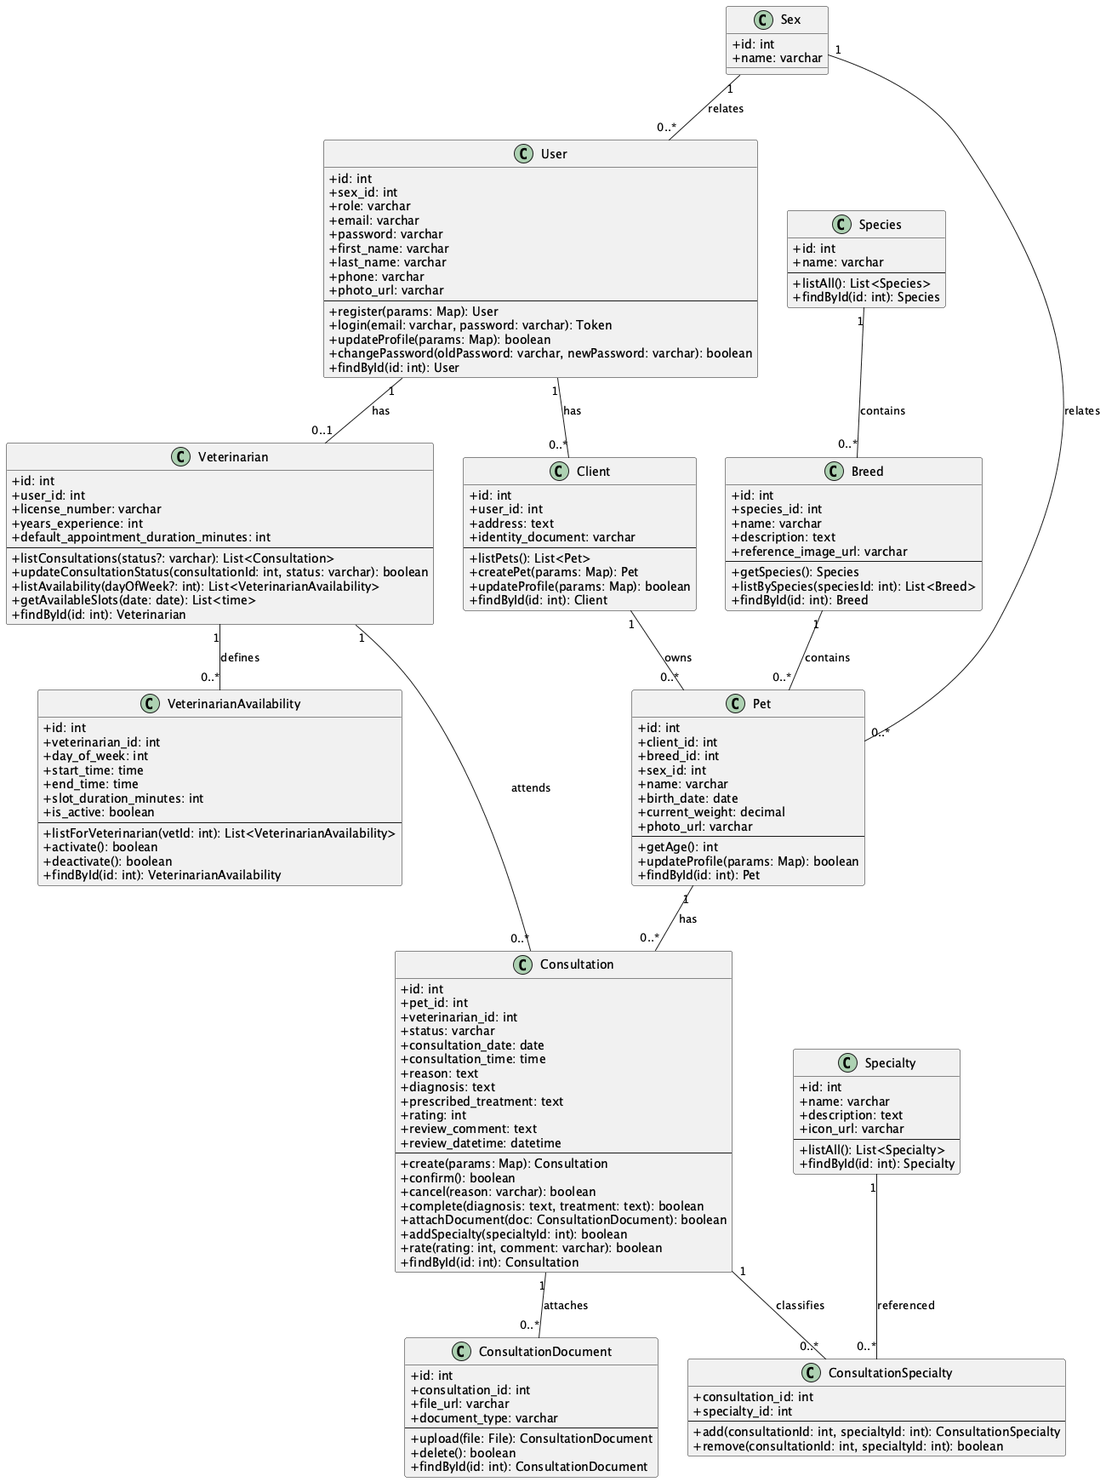
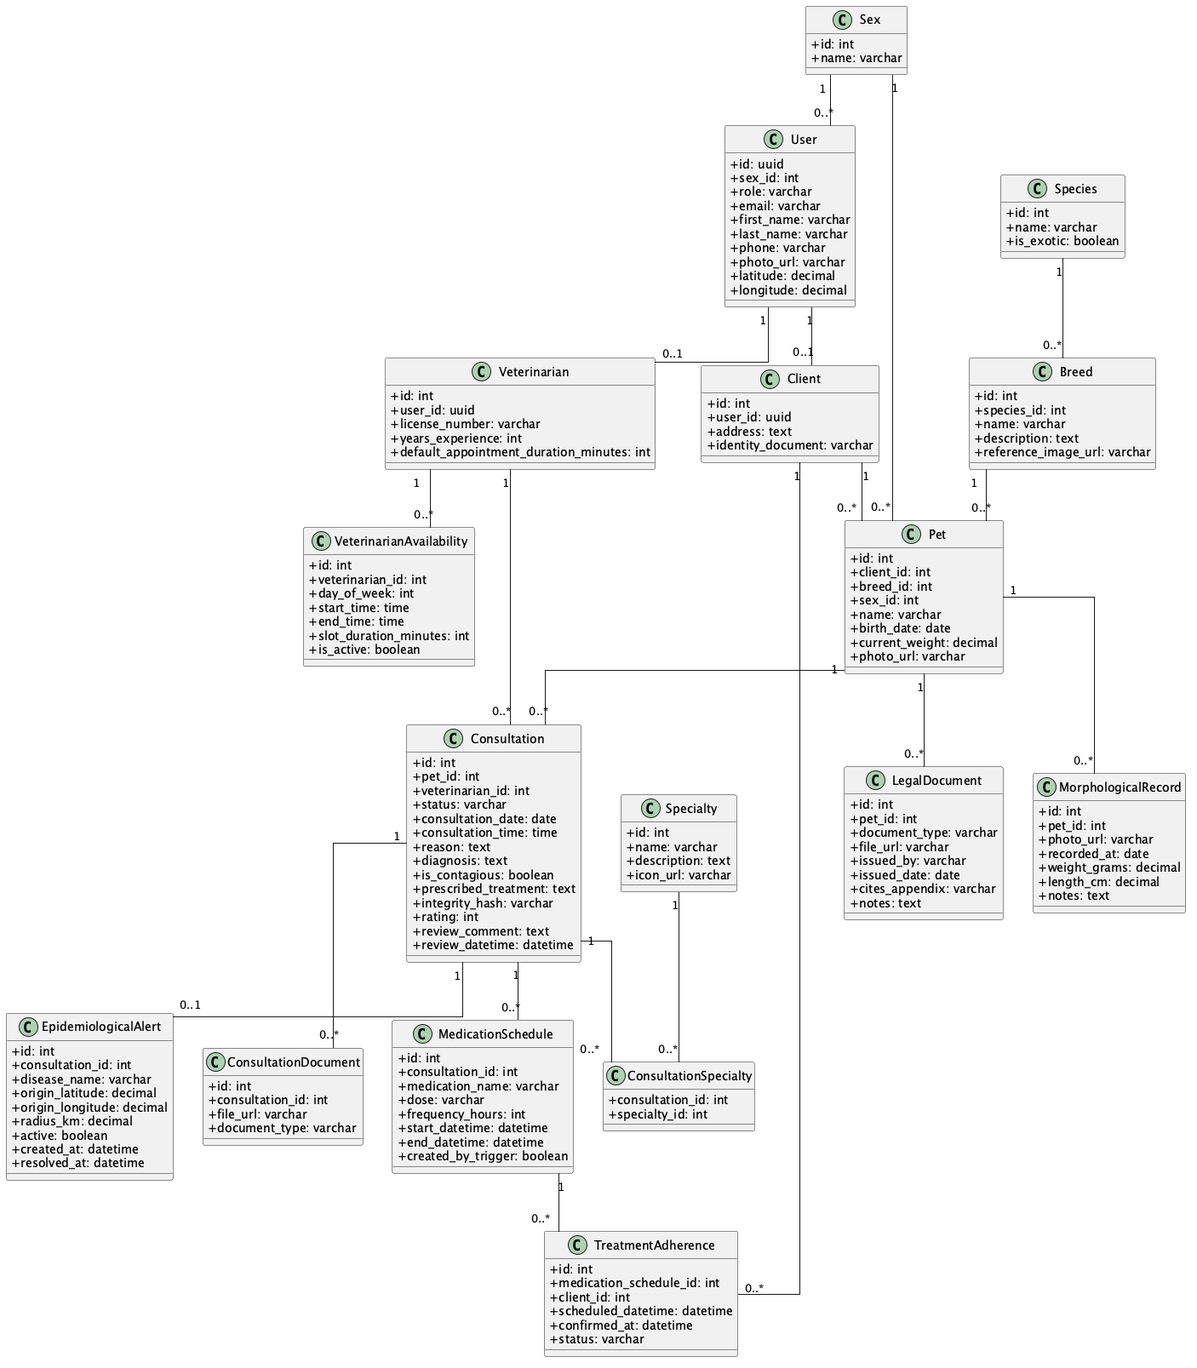
docs: README completo v2 + diagramas PNG actualizados
- Enunciado del Programa: refleja scope completo VetCare
  (exóticos, adherencia, alertas epidemiológicas, hash SHA-256)
- Casos de Uso: versión final unificada sin subsecciones
  'nuevas funcionalidades' ni 'modificaciones'; CU11/CU12
  integrados bajo Actor Cliente junto a CU04-CU07
- Descripción de Casos de Uso: embedded use_cases_schema.png +
  imágenes individuales por CU + descripciones detalladas CU11/CU12
- class_diagram_v2.puml: elimina todos los métodos (solo atributos)
- Re-renderiza PNG: schema, deployment_diagram, class_diagram_v2,
  use_cases_schema (todos actualizados con Supabase BaaS)
- RNF01/RNF02: corrige referencia a Supabase Auth + RLS
- Elimina referencias a archivos .puml en texto del README

diff --git a/README.md b/README.md
@@ -25,17 +25,19 @@ Pulsa cualquiera de los subtítulos para ir directamente a la sección:
 
 ## 📝 Enunciado del Programa (Aplicación Móvil Veterinaria)
 
-Una clínica veterinaria requiere el desarrollo de una aplicación móvil para la gestión de sus servicios de salud animal y el historial médico de sus pacientes. El sistema debe centralizar la información de todos sus usuarios (clientes -dueño de la mascota- y veterinarios), quienes deben registrar sus nombres, apellidos, correo electrónico, contraseña, teléfono de contacto, una foto de perfil y su sexo.
+VetCare es una aplicación móvil para la gestión integral de servicios de salud animal y el historial médico de pacientes veterinarios, con soporte avanzado para especies exóticas. El sistema centraliza la información de clientes (dueños de mascotas) y veterinarios, quienes registran nombre, apellidos, correo electrónico, teléfono de contacto, foto de perfil y sexo.
 
 Existen dos tipos de perfiles de usuario:
-- Clientes: Son los dueños de las mascotas, de quienes se debe registrar además su dirección y documento de identidad.
-- Veterinarios: Profesionales de la clínica de los cuales se requiere el número de colegiatura y sus años de experiencia.
+- **Clientes:** Dueños de mascotas, con registro de dirección, documento de identidad y coordenadas geográficas para alertas epidemiológicas.
+- **Veterinarios:** Profesionales de la clínica con número de colegiatura y años de experiencia.
 
-Para facilitar el seguimiento de sus animales, los clientes pueden registrar múltiples mascotas, identificando para cada una su nombre, fecha de nacimiento, sexo, peso actual y una fotografía. Cada mascota pertenece a una raza específica, la cual está asociada a una especie (como canino, felino o exótico). El registro de la raza incluye su nombre, una descripción y una imagen referencial.
+Los clientes pueden registrar múltiples mascotas, identificando nombre, fecha de nacimiento, sexo, peso actual y fotografía. Cada mascota pertenece a una raza específica asociada a una especie (canino, felino, exótico u otro). Para animales exóticos no convencionales (tortugas Mata mata/Taricaya, invertebrados, etc.), el sistema amplía el perfil con **seguimiento morfológico** (fotos alineadas en el tiempo para evaluar crecimiento de caparazones o coloración) y una **bóveda legal** de documentos como facturas de zoocriaderos y certificados CITES que demuestran el origen legal del animal.
 
-A través de la app, los clientes pueden agendar consultas médicas para sus mascotas seleccionando a un veterinario. Al agendar, el cliente elige uno de los horarios disponibles definidos por intervalos en la agenda del veterinario, junto con el motivo de la visita, creando la consulta con un estado inicial (por ejemplo: pendiente). Durante la atención, el veterinario actualiza el estado y registra el diagnóstico, tratamiento recetado y documentos adjuntos.
+A través de la app, los clientes agendan consultas médicas seleccionando veterinario, horario disponible y motivo de visita. Al registrar el diagnóstico y tratamiento, el sistema genera automáticamente un **cronograma de medicación** en base de datos. El cliente puede confirmar cada toma desde notificaciones push, y el veterinario consulta la **tasa de adherencia** al tratamiento. Si el diagnóstico es contagioso, un trigger evalúa la zona geográfica y notifica a dueños cercanos sobre el brote activo, visible también en un **mapa epidemiológico** dentro de la app.
 
-Además, las atenciones pueden clasificarse en múltiples especialidades o servicios (como medicina general, dermatología, traumatología o peluquería), de las cuales se registra su nombre, descripción y un ícono representativo. Finalmente, para medir la calidad del servicio, los clientes pueden calificar (1, 2, 3, 4 o 5) y dejar reseñas sobre las consultas que han finalizado (completadas), indicando su opinión detallada y la fecha y hora en que publicaron su comentario.
+Al finalizar citas críticas (vacunas, cirugías), el sistema genera un **hash SHA-256** del registro médico, permitiendo al cliente generar y verificar un token de autenticidad para demostrar la validez legal del historial en otras clínicas o viajes internacionales.
+
+Las atenciones se clasifican en especialidades (medicina general, dermatología, traumatología, peluquería, etc.). Los clientes pueden calificar (1-5) y dejar reseñas sobre consultas completadas.
 
 ## Explicación del entorno de desarrollo (Requisitos Previos)
 
@@ -130,56 +132,99 @@ Lo que el sistema debe hacer (acciones y funcionalidades específicas)
     7. **RNF07 (Usabilidad):** La interfaz debe ser intuitiva y adaptable (Responsive) a diferentes tamaños de pantalla en dispositivos móviles (smartphones y tablets).
 
 ## Casos de Uso
-Los casos de uso representan las interacciones principales de los actores (Cliente y Veterinario) con el sistema.
-* Actor Común: Cliente y Veterinario
+Los casos de uso representan las interacciones principales de los actores con el sistema.
+
+* **Actor Común: Cliente y Veterinario**
     * **CU01 - Registrarse en la app:** El actor completa el formulario para crear su cuenta de usuario con su rol respectivo.
-    * **CU02 - Iniciar Sesión:** El actor ingresa sus credenciales para acceder a sus funciones habilitadas.
-    * **CU03 - Editar Perfil:** El actor modifica sus datos personales de contacto o actualiza su foto de perfil.
-* Actor: Cliente
-    * **CU04 - Gestionar Mascotas:** El cliente crea, actualiza o visualiza el historial básico de sus mascotas.
-    * **CU05 - Agendar Consulta Médica:** El cliente elige a su mascota, selecciona a un médico de la clínica, escoge uno de los horarios disponibles y envía la solicitud.
-    * **CU06 - Visualizar Historial Clínico:** El cliente ingresa al perfil de su mascota y consulta los registros médicos pasados, pudiendo leer las recetas y descargar las radiografías o análisis adjuntos.
-    * **CU07 - Evaluar Atención:** Tras finalizar una consulta, el cliente selecciona las estrellas (1-5) y deja un comentario sobre el servicio recibido.
-* Actor: Veterinario
+    * **CU02 - Iniciar Sesión:** El actor ingresa sus credenciales (Supabase Auth / JWT) para acceder a sus funciones habilitadas.
+    * **CU03 - Editar Perfil:** El actor modifica sus datos personales de contacto o actualiza su foto de perfil (almacenada en Supabase Storage).
+
+* **Actor: Cliente**
+    * **CU04 - Gestionar Mascotas:** El cliente crea, actualiza o visualiza el perfil de sus mascotas. Para especies exóticas, incluye el registro de seguimiento morfológico (<<include>>) y la gestión de bóveda legal CITES (<<include>>).
+    * **CU05 - Agendar Consulta Médica:** El cliente elige a su mascota, selecciona a un veterinario, escoge un horario disponible y envía la solicitud de cita.
+    * **CU06 - Visualizar Historial Clínico:** El cliente consulta los registros médicos de sus mascotas, descarga documentos adjuntos y puede generar/verificar el token de autenticidad SHA-256 del historial (<<extend>>).
+    * **CU07 - Evaluar Atención:** Tras finalizar una consulta, el cliente otorga una calificación (1-5) y deja un comentario sobre el servicio recibido.
+    * **CU11 - Registrar Cumplimiento de Tratamiento:** El cliente confirma cada toma de medicación programada desde notificaciones push de la app, permitiendo al veterinario consultar la tasa de adherencia.
+    * **CU12 - Consultar Mapa Epidemiológico / Recibir Alertas Zonales:** El cliente visualiza el mapa de brotes activos en su zona o recibe notificaciones push cuando hay un caso contagioso registrado cerca de su dirección.
+
+* **Actor: Veterinario**
     * **CU08 - Gestionar Agenda Médica:** El veterinario visualiza su calendario de citas y actualiza el estado de las consultas solicitadas.
-    * **CU09 - Registrar Datos Médicos:** El veterinario ingresa el diagnóstico y el tratamiento de una mascota durante o después de su cita. Al guardar, el sistema genera automáticamente un cronograma de medicación y, si el diagnóstico es contagioso, dispara una alerta epidemiológica por geofencing.
-    * **CU10 - Adjuntar Resultados Médicos:** El veterinario sube archivos PDF o imágenes (como análisis de sangre o radiografías) a la consulta específica.
-* Actor: Cliente (nuevas funcionalidades)
-    * **CU11 - Registrar Cumplimiento de Tratamiento:** El cliente confirma la toma de medicación desde notificaciones push de la app, permitiendo al veterinario ver la tasa de adherencia al tratamiento.
-    * **CU12 - Consultar Mapa Epidemiológico / Recibir Alertas Zonales:** El cliente consulta el mapa de brotes activos en su zona o recibe notificaciones push cuando hay un caso contagioso cerca de su dirección registrada.
-* Modificaciones a Casos de Uso Existentes:
-    * **CU06 (ampliado) - Visualizar Historial Clínico:** Incluye el sub-caso de uso (<<extend>>) **"Generar/Verificar Token de Autenticidad"** para demostrar legalmente la validez del historial en otras clínicas o viajes.
-    * **CU04 (ampliado) - Gestionar Mascotas:** Incluye sub-casos (<<include>>) para **"Registrar Seguimiento Morfológico"** (fotos alineadas en el tiempo para evaluar crecimiento en especies exóticas) y **"Gestionar Bóveda Legal"** (facturas de zoocriaderos y certificados CITES).
-
-Puedes encontrar el diagrama de casos de uso en el archivo:
-- `use_cases_schema.puml` (ubicado en la raíz del repositorio)
-
-### Diagramas Completos de Casos de Uso
-
-El diagrama PlantUML actualizado (CU01–CU12 con relaciones <<include>> y <<extend>>) se encuentra en:
-- `use_cases_schema.puml` (ubicado en la raíz del repositorio)
+    * **CU09 - Registrar Datos Médicos:** El veterinario registra el diagnóstico y tratamiento de una consulta. Al guardar, el sistema genera automáticamente un cronograma de medicación (trigger) y, si el diagnóstico es contagioso, dispara una alerta epidemiológica por geofencing (<<extend>>).
+    * **CU10 - Adjuntar Resultados Médicos:** El veterinario sube archivos PDF o imágenes (análisis de sangre, radiografías) a la consulta específica vía Supabase Storage.
 
 ## Descripción de Casos de Uso
 
-Los casos de uso documentados a continuación corresponden a los requisitos funcionales (RF01–RF21) y están relacionados directamente con el diagrama de base de datos.
+El siguiente diagrama muestra todas las interacciones del sistema con relaciones `<<include>>` y `<<extend>>`:
 
-#### Casos de Uso Comunes (Cliente y Veterinario)
-- **CU01** Registrarse en la app
-- **CU02** Iniciar Sesión (Supabase Auth / JWT)
-- **CU03** Editar Perfil
+![Diagrama de Casos de Uso](Docs/diagrams/use_cases_schema.png)
 
-#### Casos de Uso - Cliente
-- **CU04** Gestionar Mascotas *(incluye: Registrar Seguimiento Morfológico, Gestionar Bóveda Legal CITES)*
-- **CU05** Agendar Consulta Médica
-- **CU06** Visualizar Historial Clínico *(extiende: Generar/Verificar Token de Autenticidad)*
-- **CU07** Evaluar Atención
-- **CU11** Registrar Cumplimiento de Tratamiento *(confirma toma de medicación vía push)*
-- **CU12** Consultar Mapa Epidemiológico / Recibir Alertas Zonales
+---
 
-#### Casos de Uso - Veterinario
-- **CU08** Gestionar Agenda Médica
-- **CU09** Registrar Datos Médicos *(trigger: genera cronograma de medicación + alerta epidemiológica si diagnóstico contagioso)*
-- **CU10** Adjuntar Resultados Médicos
+### Casos de Uso Comunes (Cliente y Veterinario)
+
+**CU01 - Registrarse en la app**
+El actor completa el formulario de registro seleccionando su rol (Cliente o Veterinario). Incluye: ingresar datos, seleccionar rol y confirmar registro.
+
+<img src="Docs/casos_de_uso/CU_01.jpg" width="800" alt="CU01 Registrarse"/>
+
+**CU02 - Iniciar Sesión**
+El actor ingresa credenciales para autenticarse mediante Supabase Auth, obteniendo un JWT almacenado en Keychain/Keystore.
+
+<img src="Docs/casos_de_uso/CU_02.jpg" width="800" alt="CU02 Iniciar Sesión"/>
+
+**CU03 - Editar Perfil**
+El actor actualiza sus datos personales de contacto. Opcionalmente (<<extend>>) puede actualizar su foto de perfil almacenada en Supabase Storage.
+
+<img src="Docs/casos_de_uso/CU_03.jpg" width="800" alt="CU03 Editar Perfil"/>
+
+---
+
+### Casos de Uso — Cliente
+
+**CU04 - Gestionar Mascotas**
+El cliente crea, actualiza y consulta el perfil de sus mascotas. Para especies exóticas, incluye (<<include>>) el registro de seguimiento morfológico (fotos alineadas en el tiempo para evaluar crecimiento de caparazones o coloración) y la gestión de bóveda legal (certificados CITES y facturas de zoocriaderos).
+
+<img src="Docs/casos_de_uso/CU_04.jpg" width="800" alt="CU04 Gestionar Mascotas"/>
+
+**CU05 - Agendar Consulta Médica**
+El cliente selecciona mascota, veterinario, horario disponible y redacta el motivo de visita. El sistema asigna automáticamente el estado "Pendiente".
+
+<img src="Docs/casos_de_uso/CU_05.jpg" width="800" alt="CU05 Agendar Consulta"/>
+
+**CU06 - Visualizar Historial Clínico**
+El cliente consulta el historial completo de consultas completadas de sus mascotas: diagnósticos, recetas y documentos adjuntos. Opcionalmente (<<extend>>) puede generar o verificar el token de autenticidad SHA-256 del registro para demostrar su validez legal en otras clínicas o viajes internacionales.
+
+<img src="Docs/casos_de_uso/CU_06.jpg" width="800" alt="CU06 Historial Clínico"/>
+
+**CU07 - Evaluar Atención**
+Tras finalizar una consulta, el cliente otorga una calificación de 1 a 5 estrellas. Opcionalmente (<<extend>>) agrega un comentario detallado sobre el servicio.
+
+<img src="Docs/casos_de_uso/CU_07.jpg" width="800" alt="CU07 Evaluar Atención"/>
+
+**CU11 - Registrar Cumplimiento de Tratamiento**
+El cliente recibe notificaciones push por cada toma programada en el cronograma de medicación generado por el veterinario. Al confirmar la toma, el sistema registra la adherencia, permitiendo al veterinario consultar el porcentaje de cumplimiento del tratamiento.
+
+**CU12 - Consultar Mapa Epidemiológico / Recibir Alertas Zonales**
+El cliente accede a un mapa con los brotes activos en su zona. Cuando un veterinario registra un diagnóstico contagioso, un trigger de Supabase evalúa las coordenadas del cliente y envía notificaciones push a los dueños de mascotas dentro del radio de riesgo.
+
+---
+
+### Casos de Uso — Veterinario
+
+**CU08 - Gestionar Agenda Médica**
+El veterinario consulta su calendario de citas y actualiza el estado de cada consulta (Pendiente → Confirmada → En curso → Completada / Cancelada).
+
+<img src="Docs/casos_de_uso/CU_08.jpg" width="800" alt="CU08 Gestionar Agenda"/>
+
+**CU09 - Registrar Datos Médicos**
+El veterinario registra diagnóstico, tratamiento e indica si el diagnóstico es contagioso. Al guardar (<<include>>), el sistema genera automáticamente un cronograma de medicación vía trigger. Si el diagnóstico es contagioso (<<extend>>), se dispara una alerta epidemiológica por geofencing hacia los clientes cercanos.
+
+<img src="Docs/casos_de_uso/CU_09.jpg" width="800" alt="CU09 Registrar Datos Médicos"/>
+
+**CU10 - Adjuntar Resultados Médicos**
+El veterinario sube archivos PDF o imágenes (radiografías, análisis de sangre) directamente a Supabase Storage, asociándolos a la consulta correspondiente.
+
+<img src="Docs/casos_de_uso/CU_10.jpg" width="800" alt="CU10 Adjuntar Resultados"/>
 
 ## Diagrama de Base de Datos (Schema)
 
@@ -199,68 +244,29 @@ Para soportar todos los requisitos funcionales, se diseñó un modelo de entidad
 - **morphological_records**: Fotos alineadas en el tiempo para seguimiento de crecimiento en especies exóticas (CU04)
 - **legal_documents**: Bóveda de certificados CITES y facturas de zoocriaderos (CU04)
 
-El diagrama completo se encuentra en: `schema.puml` (ubicado en la raíz del repositorio)
-
 ![Diagrama de Base de Datos](Docs/diagrams/schema.png)
 
 ---
 
 ## Diagrama de Clases
-El diagrama de clases muestra las entidades del dominio, sus atributos principales, las relaciones entre ellas y los métodos representativos de negocio.
-
-- Propósito: documentar el dominio y servir como referencia para implementar los `models` y las migraciones.
-- Uso recomendado: usarlo como guía; las validaciones, autorizaciones y la lógica completa van en el código fuente.
-- Contenido: cada clase representa una entidad del esquema y sus asociaciones muestran cómo se relacionan los datos entre sí.
+El diagrama de clases muestra las entidades del dominio, sus atributos y las relaciones entre ellas. Sirve como referencia directa para implementar los modelos de datos y las migraciones de Supabase.
 
 Clases clave:
-- `User`: concentra los datos comunes de autenticación y perfil (via Supabase Auth + JWT).
-- `Client` y `Veterinarian`: especializan el usuario según su rol, con RLS en Supabase.
-- `Pet`: representa cada mascota. Incluye referencias a `MorphologicalRecord` (seguimiento morfológico) y `LegalDocument` (bóveda CITES).
-- `Consultation`: flujo principal de atención médica. Al completarse, genera un `MedicationSchedule` via trigger y, si el diagnóstico es contagioso, una `EpidemiologicalAlert`.
+- `User`: datos comunes de autenticación y perfil (via Supabase Auth + JWT). Incluye coordenadas geográficas para alertas epidemiológicas.
+- `Client` y `Veterinarian`: especializan al usuario según su rol, con control de acceso por RLS en Supabase.
+- `Pet`: perfil de cada mascota. Se relaciona con `MorphologicalRecord` (seguimiento morfológico para exóticos) y `LegalDocument` (bóveda CITES).
+- `Consultation`: flujo principal de atención médica. Al completarse genera un `MedicationSchedule` vía trigger y, si el diagnóstico es contagioso, una `EpidemiologicalAlert`.
 - `ConsultationDocument`: archivos adjuntos almacenados en Supabase Storage.
 - `ConsultationSpecialty`: vincula consultas con especialidades clínicas.
 - `VeterinarianAvailability`: intervalos de disponibilidad del veterinario.
-- `MedicationSchedule` y `TreatmentAdherence`: cronograma de medicación y registro de cumplimiento del cliente (CU11).
-- `EpidemiologicalAlert`: alertas de brotes activos por zona geográfica (CU12).
-- `MorphologicalRecord`: fotos alineadas en el tiempo para especies exóticas (CU04).
+- `MedicationSchedule`: cronograma de medicación generado automáticamente al registrar tratamiento (CU09).
+- `TreatmentAdherence`: registro de cada toma confirmada por el cliente vía push (CU11).
+- `EpidemiologicalAlert`: alerta de brote activo generada por geofencing (CU12).
+- `MorphologicalRecord`: registro fotográfico alineado en el tiempo para especies exóticas (CU04).
 - `LegalDocument`: certificados CITES y facturas de zoocriaderos (CU04).
 - `Species`, `Breed` y `Specialty`: catálogos del sistema.
 
-Métodos clave:
-- Los métodos del diagrama representan acciones de dominio y reglas de negocio.
-- Ejemplos: registro e inicio de sesión en `User`, gestión de mascotas en `Client` y `Pet`, control del ciclo de atención en `Consultation`, adjuntos en `ConsultationDocument` y horarios en `VeterinarianAvailability`.
-- El objetivo es mostrar qué responsabilidades tiene cada clase dentro del dominio, no detallar la implementación completa.
-
-Explicación más detallada de los métodos:
-- `User.register()` crea una cuenta nueva con los datos base del usuario y su rol.
-- `User.login()` valida credenciales y permite el acceso al sistema.
-- `User.updateProfile()` actualiza datos de contacto o foto de perfil.
-- `User.changePassword()` modifica la contraseña actual por una nueva.
-- `Client.listPets()` devuelve las mascotas registradas por ese cliente.
-- `Client.createPet()` agrega una nueva mascota asociada al cliente.
-- `Veterinarian.listConsultations()` muestra las consultas asignadas al veterinario.
-- `Veterinarian.updateConsultationStatus()` cambia el estado de una consulta en curso o pendiente.
-- `Veterinarian.listAvailability()` recupera los bloques de horario disponibles.
-- `Veterinarian.getAvailableSlots()` calcula los espacios libres según fecha y configuración.
-- `Pet.getAge()` calcula la edad de la mascota a partir de su fecha de nacimiento.
-- `Pet.updateProfile()` actualiza nombre, peso, foto u otros datos básicos de la mascota.
-- `Consultation.create()` inicia una nueva consulta con mascota, veterinario, fecha, hora y motivo.
-- `Consultation.confirm()` marca la consulta como confirmada.
-- `Consultation.cancel()` cancela la consulta y guarda la razón.
-- `Consultation.complete()` cierra la atención registrando diagnóstico y tratamiento.
-- `Consultation.attachDocument()` asocia un documento médico a la consulta.
-- `Consultation.addSpecialty()` relaciona la consulta con una especialidad clínica.
-- `Consultation.rate()` guarda la calificación y comentario del cliente.
-- `ConsultationDocument.upload()` representa la carga de un archivo médico.
-- `ConsultationDocument.delete()` elimina un documento adjunto.
-- `ConsultationSpecialty.add()` crea la relación entre una consulta y una especialidad.
-- `ConsultationSpecialty.remove()` elimina esa relación.
-- `VeterinarianAvailability.listForVeterinarian()` obtiene la agenda disponible de un veterinario.
-- `VeterinarianAvailability.activate()` habilita un bloque de disponibilidad.
-- `VeterinarianAvailability.deactivate()` deshabilita un bloque de disponibilidad.
-- `Species.listAll()`, `Breed.listBySpecies()` y `Specialty.listAll()` recuperan catálogos del sistema para usarse en formularios y consultas.
-
-![Diagrama de Clases (métodos representativos)](Docs/diagrams/class_diagram_v2.png)
+![Diagrama de Clases](Docs/diagrams/class_diagram_v2.png)
 
 ---
 
@@ -274,8 +280,6 @@ La arquitectura del sistema está compuesta por:
 4. **Supabase Storage**: Almacenamiento de imágenes, documentos médicos y archivos CITES
 5. **Supabase Edge Functions**: Funciones serverless para generación de hashes de autenticidad y notificaciones push
 
-El diagrama de despliegue con mapeo de requisitos no funcionales se encuentra en: `deployment_diagram.puml` (ubicado en la raíz del repositorio)
-
 ![Diagrama de Despliegue](Docs/diagrams/deployment_diagram.png)
 
 ---
@@ -284,8 +288,8 @@ El diagrama de despliegue con mapeo de requisitos no funcionales se encuentra en
 
 | RNF | Descripción | Componente en Diagrama |
 |-----|-----------|----------------------|
-| **RNF01** | Encriptación de contraseñas (bcrypt) | Módulo de Seguridad en Backend |
-| **RNF02** | Control de acceso por rol | Módulo de Seguridad en Backend |
+| **RNF01** | Encriptación de contraseñas (bcrypt) | Supabase Auth (gestionado en la nube) |
+| **RNF02** | Control de acceso por rol | Supabase RLS (Row Level Security) |
 | **RNF03** | Autenticación JWT guardada en Keychain | Keystore en Dispositivo Móvil + Supabase Auth |
 | **RNF04** | Rendimiento < 3 segundos | SDK Supabase con caché + Red HTTPS |
 | **RNF05** | Compresión de imágenes antes de subir | Módulo de Compresión en Dispositivo Móvil → Supabase Storage |
